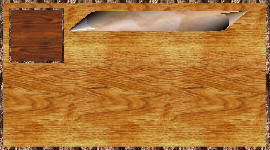
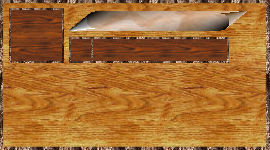
Set "K" or "M" to high numbers
Change infobox_destroyedBuilding backgroung

Changed region(s): [[0.237, 0.24, 0.8593, 0.4267]]

diff --git a/Gleipnir/GameEventUC.Designer.cs b/Gleipnir/GameEventUC.Designer.cs
@@ -30,7 +30,7 @@
         {
             this.EventTitle = new System.Windows.Forms.Label();
             this.EventContain = new System.Windows.Forms.Label();
-            this.label1 = new System.Windows.Forms.Label();
+            this.EventContain2 = new System.Windows.Forms.Label();
             this.SuspendLayout();
             // 
             // EventTitle
@@ -38,7 +38,7 @@
             this.EventTitle.AutoSize = true;
             this.EventTitle.Font = new System.Drawing.Font("Malgun Gothic", 10F, System.Drawing.FontStyle.Bold, System.Drawing.GraphicsUnit.Point, ((byte)(0)));
             this.EventTitle.ForeColor = System.Drawing.Color.Maroon;
-            this.EventTitle.Location = new System.Drawing.Point(76, 5);
+            this.EventTitle.Location = new System.Drawing.Point(19, 5);
             this.EventTitle.Name = "EventTitle";
             this.EventTitle.Size = new System.Drawing.Size(85, 19);
             this.EventTitle.TabIndex = 0;
@@ -50,23 +50,23 @@
             this.EventContain.Font = new System.Drawing.Font("Malgun Gothic", 9F, System.Drawing.FontStyle.Regular, System.Drawing.GraphicsUnit.Point, ((byte)(0)));
             this.EventContain.ForeColor = System.Drawing.Color.Navy;
             this.EventContain.ImageAlign = System.Drawing.ContentAlignment.MiddleLeft;
-            this.EventContain.Location = new System.Drawing.Point(14, 26);
+            this.EventContain.Location = new System.Drawing.Point(8, 26);
             this.EventContain.Name = "EventContain";
             this.EventContain.Size = new System.Drawing.Size(84, 15);
             this.EventContain.TabIndex = 1;
             this.EventContain.Text = "Blah blah blah";
             // 
-            // label1
+            // EventContain2
             // 
-            this.label1.AutoSize = true;
-            this.label1.Font = new System.Drawing.Font("Malgun Gothic", 9F, System.Drawing.FontStyle.Regular, System.Drawing.GraphicsUnit.Point, ((byte)(0)));
-            this.label1.ForeColor = System.Drawing.Color.Navy;
-            this.label1.ImageAlign = System.Drawing.ContentAlignment.MiddleLeft;
-            this.label1.Location = new System.Drawing.Point(14, 43);
-            this.label1.Name = "label1";
-            this.label1.Size = new System.Drawing.Size(84, 15);
-            this.label1.TabIndex = 2;
-            this.label1.Text = "Blah blah blah";
+            this.EventContain2.AutoSize = true;
+            this.EventContain2.Font = new System.Drawing.Font("Malgun Gothic", 9F, System.Drawing.FontStyle.Regular, System.Drawing.GraphicsUnit.Point, ((byte)(0)));
+            this.EventContain2.ForeColor = System.Drawing.Color.Navy;
+            this.EventContain2.ImageAlign = System.Drawing.ContentAlignment.MiddleLeft;
+            this.EventContain2.Location = new System.Drawing.Point(8, 43);
+            this.EventContain2.Name = "EventContain2";
+            this.EventContain2.Size = new System.Drawing.Size(84, 15);
+            this.EventContain2.TabIndex = 2;
+            this.EventContain2.Text = "Blah blah blah";
             // 
             // GameEventUC
             // 
@@ -75,7 +75,7 @@
             this.BackColor = System.Drawing.Color.Transparent;
             this.BackgroundImage = global::GamePages.Properties.Resources.GameEventUC_backgroung;
             this.BackgroundImageLayout = System.Windows.Forms.ImageLayout.Stretch;
-            this.Controls.Add(this.label1);
+            this.Controls.Add(this.EventContain2);
             this.Controls.Add(this.EventTitle);
             this.Controls.Add(this.EventContain);
             this.DoubleBuffered = true;
@@ -90,6 +90,6 @@
 
         internal System.Windows.Forms.Label EventTitle;
         internal System.Windows.Forms.Label EventContain;
-        internal System.Windows.Forms.Label label1;
+        internal System.Windows.Forms.Label EventContain2;
     }
 }

diff --git a/Gleipnir/TabIndex.Designer.cs b/Gleipnir/TabIndex.Designer.cs
@@ -28,6 +28,7 @@
         /// </summary>
         private void InitializeComponent()
         {
+            this.components = new System.ComponentModel.Container();
             System.ComponentModel.ComponentResourceManager resources = new System.ComponentModel.ComponentResourceManager(typeof(TabIndex));
             this.actionsMenu = new System.Windows.Forms.TabControl();
             this.buildingsTab = new System.Windows.Forms.TabPage();
@@ -52,11 +53,13 @@
             this.happinessTab = new System.Windows.Forms.TabPage();
             this.VillagerList = new System.Windows.Forms.TabPage();
             this.godSpellsTab = new System.Windows.Forms.TabPage();
+            this.familyBindingSource = new System.Windows.Forms.BindingSource(this.components);
             this.StartEarthquake = new System.Windows.Forms.Button();
             this.StartEpidemic = new System.Windows.Forms.Button();
             this.actionsMenu.SuspendLayout();
             this.buildingsTab.SuspendLayout();
             this.godSpellsTab.SuspendLayout();
+            ((System.ComponentModel.ISupportInitialize)(this.familyBindingSource)).BeginInit();
             this.SuspendLayout();
             // 
             // actionsMenu
@@ -326,11 +329,15 @@
             this.godSpellsTab.TabIndex = 3;
             this.godSpellsTab.UseVisualStyleBackColor = true;
             // 
+            // familyBindingSource
+            // 
+            this.familyBindingSource.DataSource = typeof(Game.Family);
+            // 
             // StartEarthquake
             // 
             this.StartEarthquake.Image = global::GamePages.Properties.Resources.ButtonIcon_Earthquake;
             this.StartEarthquake.ImageAlign = System.Drawing.ContentAlignment.MiddleLeft;
-            this.StartEarthquake.Location = new System.Drawing.Point(24, 55);
+            this.StartEarthquake.Location = new System.Drawing.Point(24, 53);
             this.StartEarthquake.Name = "StartEarthquake";
             this.StartEarthquake.Size = new System.Drawing.Size(161, 30);
             this.StartEarthquake.TabIndex = 1;
@@ -343,7 +350,7 @@
             // 
             this.StartEpidemic.Image = global::GamePages.Properties.Resources.ButtonIcon_epidemic;
             this.StartEpidemic.ImageAlign = System.Drawing.ContentAlignment.MiddleLeft;
-            this.StartEpidemic.Location = new System.Drawing.Point(24, 19);
+            this.StartEpidemic.Location = new System.Drawing.Point(24, 17);
             this.StartEpidemic.Name = "StartEpidemic";
             this.StartEpidemic.Size = new System.Drawing.Size(161, 30);
             this.StartEpidemic.TabIndex = 0;
@@ -363,6 +370,7 @@
             this.actionsMenu.ResumeLayout(false);
             this.buildingsTab.ResumeLayout(false);
             this.godSpellsTab.ResumeLayout(false);
+            ((System.ComponentModel.ISupportInitialize)(this.familyBindingSource)).EndInit();
             this.ResumeLayout(false);
 
         }
@@ -394,5 +402,6 @@
         private System.Windows.Forms.Label hobbyBuilding_title;
         public System.Windows.Forms.TabControl actionsMenu;
         private System.Windows.Forms.Button StartEarthquake;
+        private System.Windows.Forms.BindingSource familyBindingSource;
     }
 }

diff --git a/Gleipnir/GeneralPage.cs b/Gleipnir/GeneralPage.cs
@@ -165,7 +165,7 @@ namespace GamePages
             #endregion
 
             #region EventBox tests
-            PushAlert("coucoudfghjkjhgfd", "coucou1");
+            /*PushAlert("coucoudfghjkjhgfd", "coucou1");
             PushAlert("coucou2546", "coucou2");
             PushAlert("coucou4543", "coucou3");
             PushAlert("coucou44545", "coucou4");
@@ -177,7 +177,7 @@ namespace GamePages
             PushAlert("coucou10", "coucou");
             PushAlert("coucou11", "coucou");
             PushAlert("coucou12", "coucou");
-            /*PushAlert("coucou", "coucou");
+            PushAlert("coucou", "coucou");
             PushAlert("coucou", "coucou");
             PushAlert("coucou", "coucou");*/
             #endregion
@@ -203,10 +203,6 @@ namespace GamePages
         internal TabIndex ActionMenu
         {
             get { return _actionMenu; }
-        }
-        internal void ShowListOfVillager(Family family)
-        {
-
         }
 
         // Window Methods
@@ -258,11 +254,11 @@ namespace GamePages
         // Stats Methods
         public void PushGeneralCoins(int value)
         {
-            _stats.offeringsPoints.Text = value.ToString();
+            _stats.offeringsPoints.Text = TransformHighNumberToKnumbers(value);
         }
         public void PushGeneralGold(int value)
         {
-            _stats.goldVillage.Text = value.ToString();
+            _stats.goldVillage.Text = TransformHighNumberToKnumbers(value);
         }
         public void PushOfferingsPointsPerTick(int value)
         {
@@ -283,7 +279,30 @@ namespace GamePages
         }
         public void PushPopulation(int pop)
         {
-            _stats.population.Text = pop.ToString();
+            _stats.population.Text = TransformHighNumberToKnumbers(pop);
+        }
+        public string TransformHighNumberToKnumbers(int value)
+        {
+            string text = "";
+            string nb = value.ToString();
+
+            if (value < 1000)
+                text = nb;
+            else if (value > 999 && value <= 999999)
+            {
+                for (int i = 0; i < nb.Count<char>() - 3; i++)
+                    text += nb[i];
+                text += "K";
+            }
+            else if (value > 999999 && value <= 999999999)
+            {
+                for (int i = 0; i < nb.Count<char>() - 6; i++)
+                    text += nb[i];
+                text += "M";
+            }
+            else
+                text += "+999M";
+            return text;
         }
 
         // TraceWindow Methods

diff --git a/Gleipnir/TabIndex.cs b/Gleipnir/TabIndex.cs
@@ -9,16 +9,17 @@ using System.Threading.Tasks;
 using System.Windows.Forms;
 using Game;
 using Game.Buildings;
+using System.Diagnostics;
 
 namespace GamePages
 {
     public partial class TabIndex : UserControl
     {
+        List<VillagerBannerUC> ListOfVillagersToShow;
         readonly GeneralPage _page;
         bool isOnBought;
         bool passed;
         bool isEpidemicLaunched;
-        List<VillagerBannerUC> ListOfVillagersToShow;
         int positionX;
         int positionY;
 
@@ -67,10 +68,6 @@ namespace GamePages
         {
             get { return isOnBought; }
             set { isOnBought = value; }
-        }
-
-        internal void ShowUnboughtBuildings()
-        {
         }
 
         // Buildings Click
@@ -175,27 +172,36 @@ namespace GamePages
             Game.GodSpell.Earthquake earthquake = new Game.GodSpell.Earthquake(_page.Game, _page.Game.Villages[0]);
         }
         
+        // Villagers list
         internal void ShowVillagerListInFamily(Family fam)
         {
-            if (passed == false)
+            if (!passed)
             {
-                passed = true;
                 ListOfVillagersToShow = new List<VillagerBannerUC>();
+                passed = true;
             }
             DestroyVillagerList();
 
             for (int i = 0; i < fam.FamilyMembers.Count; i++)
             {
                 VillagerBannerUC tmp = new VillagerBannerUC();
-                ListOfVillagersToShow.Add(tmp);
+                
+                // Add gender icon
                 if(fam.FamilyMembers[i].Gender == Genders.FEMALE)
                     tmp.VillagerFace.BackgroundImage = GamePages.Properties.Resources.Gender_Female;
                 else
                     tmp.VillagerFace.BackgroundImage = GamePages.Properties.Resources.Gender_Male;
+
+                // Set VillagerBannerUC
                 tmp.VillagerName.Text = fam.FamilyMembers[i].FirstName + " " + fam.FamilyMembers[i].Name;
-                this.VillagerList.Controls.Add(tmp);
-                tmp.Show();
                 tmp.Location = new System.Drawing.Point(positionX, positionY);
+
+                // Add VillagerBannerUC to lists and show it
+                this.VillagerList.Controls.Add(tmp);
+                ListOfVillagersToShow.Add(tmp);
+                tmp.Show();
+
+                // Set position for next VillagerBannerUC
                 positionY += 62;
             }
         }

diff --git a/Gleipnir/InformationsUC.Designer.cs b/Gleipnir/InformationsUC.Designer.cs
@@ -76,7 +76,7 @@
             this.happinessVillage.BackColor = System.Drawing.Color.Transparent;
             this.happinessVillage.Font = new System.Drawing.Font("Malgun Gothic", 10F, System.Drawing.FontStyle.Regular, System.Drawing.GraphicsUnit.Point, ((byte)(0)));
             this.happinessVillage.ForeColor = System.Drawing.SystemColors.ControlLight;
-            this.happinessVillage.Location = new System.Drawing.Point(395, 6);
+            this.happinessVillage.Location = new System.Drawing.Point(392, 6);
             this.happinessVillage.Name = "happinessVillage";
             this.happinessVillage.Size = new System.Drawing.Size(62, 19);
             this.happinessVillage.TabIndex = 18;
@@ -89,7 +89,7 @@
             this.faithVillage.BackColor = System.Drawing.Color.Transparent;
             this.faithVillage.Font = new System.Drawing.Font("Malgun Gothic", 10F, System.Drawing.FontStyle.Regular, System.Drawing.GraphicsUnit.Point, ((byte)(0)));
             this.faithVillage.ForeColor = System.Drawing.SystemColors.ControlLight;
-            this.faithVillage.Location = new System.Drawing.Point(305, 7);
+            this.faithVillage.Location = new System.Drawing.Point(302, 7);
             this.faithVillage.Name = "faithVillage";
             this.faithVillage.Size = new System.Drawing.Size(27, 19);
             this.faithVillage.TabIndex = 17;
@@ -102,7 +102,7 @@
             this.population.BackColor = System.Drawing.Color.Transparent;
             this.population.Font = new System.Drawing.Font("Malgun Gothic", 10F, System.Drawing.FontStyle.Regular, System.Drawing.GraphicsUnit.Point, ((byte)(0)));
             this.population.ForeColor = System.Drawing.SystemColors.ControlLight;
-            this.population.Location = new System.Drawing.Point(215, 7);
+            this.population.Location = new System.Drawing.Point(213, 7);
             this.population.Name = "population";
             this.population.Size = new System.Drawing.Size(75, 19);
             this.population.TabIndex = 16;

diff --git a/Gleipnir/EventFluxUC.cs b/Gleipnir/EventFluxUC.cs
@@ -32,19 +32,29 @@ namespace GamePages
             positionY = 3;
             GameEventUC newMessage = new GameEventUC();
             newMessage.EventTitle.Text = title;
-            newMessage.EventContain.Text = message;
+            newMessage.EventContain.Text = "";
+            newMessage.EventContain2.Text = "";
+
+            // Cut message if too long
+            if (message.Count<char>() > 38)
+            {
+                for (int i = 0; i < 38; i++)
+                    newMessage.EventContain.Text += message[i];
+                for (int i = 38; i < message.Count<char>(); i++)
+                    newMessage.EventContain2.Text += message[i];
+            }
+            else
+                newMessage.EventContain.Text = message;
 
             if (_eventList.Count == 10)
-            {
                 this.Controls.Remove(_eventList[9]);
-            }
             _eventList.Push(newMessage);
             this.Controls.Add(_eventList[0]);
             _eventList[0].Show();
 
             for (int i = 0; i < _eventList.Count; i++)
             {
-                _eventList[i].Location = new System.Drawing.Point(positionX+3, positionY);
+                _eventList[i].Location = new System.Drawing.Point(positionX + 3, positionY);
                 positionY += 68;
             }
         }

diff --git a/Game/GodSpell/Epidemic.cs b/Game/GodSpell/Epidemic.cs
@@ -13,8 +13,7 @@ namespace Game.GodSpell
         //Family ParentFamily;
         Virus _virus;
         int _timeSinceCreation;
-        public int TimeSinceCreation { get { return _timeSinceCreation; } }
-        int _timeBeforeThePlayerIsWarned;//=1 => Event; =0 =>Already warned
+        int _timeBeforeThePlayerIsWarned; //=1 => Event; =0 =>Already warned
         public readonly List<Villager> SickVillagerList;
 
         public Epidemic(Game g, Villager v)
@@ -30,6 +29,9 @@ namespace Game.GodSpell
             v.SetVirus(_virus);
             _timeBeforeThePlayerIsWarned = 5;
         }
+
+        public int TimeSinceCreation { get { return _timeSinceCreation; } }
+
         public void LaunchEpidemic()
         {
             //affectedVillager.SetVirus();
@@ -75,6 +77,7 @@ namespace Game.GodSpell
                 }
             }
         }
+
         override internal void ImpactHappiness()
         {
             _timeSinceCreation++;

diff --git a/Game/Village.cs b/Game/Village.cs
@@ -197,7 +197,7 @@ namespace Game
         /// <param name="house"></param>
         public void AddEmptyHouse(Buildings.House house)
         {
-            Debug.Assert(!EmptyHouseList.Contains(house), @"(village, AddEmptyHouse) This house is in EmptyHouseList");
+            // Debug.Assert(!EmptyHouseList.Contains(house), @"(village, AddEmptyHouse) This house is in EmptyHouseList");
             if(!EmptyHouseList.Contains(house))
                 EmptyHouseList.Add(house);
         }

diff --git a/Gleipnir/InformationsUC.cs b/Gleipnir/InformationsUC.cs
@@ -42,7 +42,7 @@ namespace GamePages
         private void TaxAmount_ValueChanged(object sender, EventArgs e)
         {          
             _page.Game.Villages[0].SetOfferingsPoints(TaxAmount.Value);
-            TaxAmountValue.Text = "Quantité : " + TaxAmount.Value.ToString();
+            TaxAmountValue.Text = "Quantité : " + _page.TransformHighNumberToKnumbers(TaxAmount.Value);
         }
     }
 }

diff --git a/Gleipnir/InformationBox.cs b/Gleipnir/InformationBox.cs
@@ -246,7 +246,7 @@ namespace GamePages
 
             // InfoBox Texts
             Title.Visible = true;
-            Title.Location = new Point(positionX - 20, positionY);
+            Title.Location = new Point(positionX - 35, positionY);
             Title.Text = "Bâtiment détruit";
             objectName.Visible = true;
             ElementName.Visible = true;
